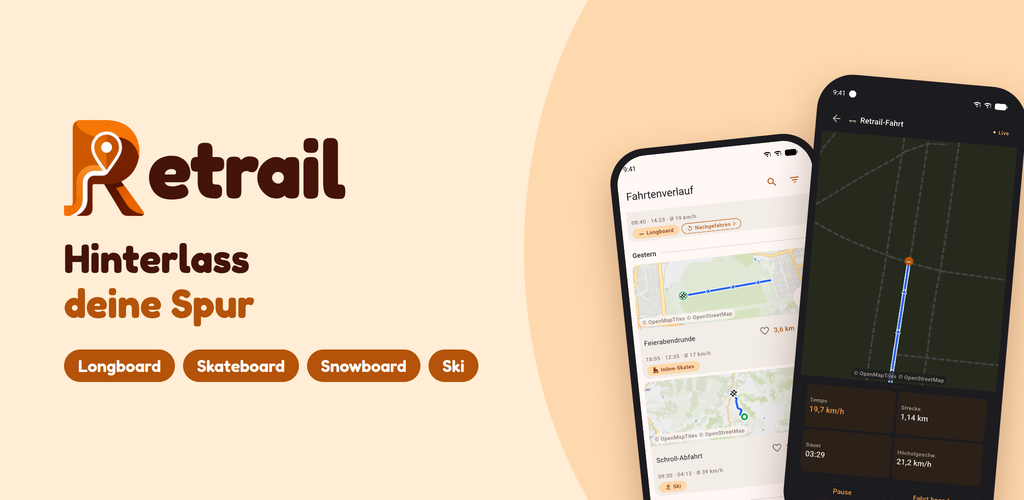
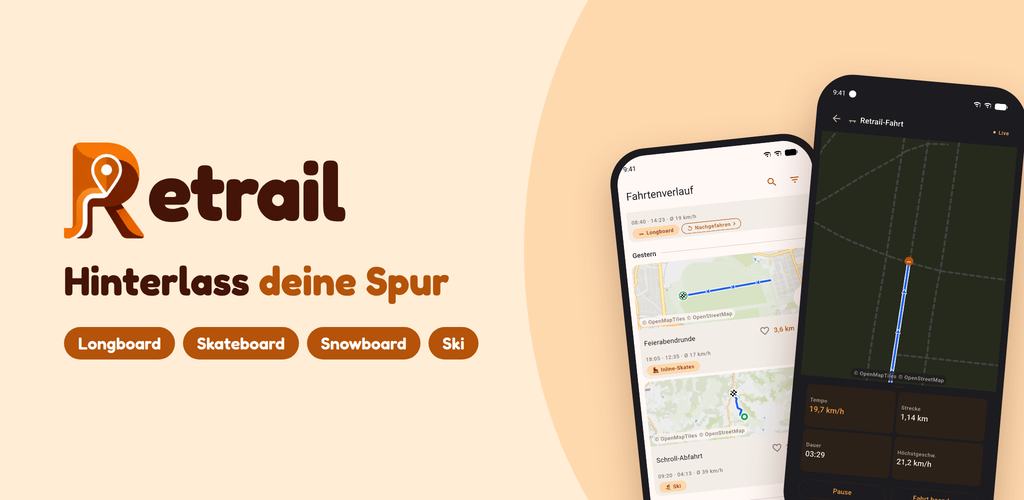
docs(store): set the feature graphic slogan on one line (#94)

Changed region(s): [[0.0625, 0.24, 0.4688, 0.78]]

diff --git a/store/play/feature_graphic.html b/store/play/feature_graphic.html
@@ -46,9 +46,9 @@
 
   <script>
     const copy = {
-      en: { tagline: 'Leave<br><em>your trail</em>',
+      en: { tagline: 'Leave <em>your trail</em>',
             chips: ['Longboard', 'Skateboard', 'Snowboard', 'Ski'] },
-      de: { tagline: 'Hinterlass<br><em>deine Spur</em>',
+      de: { tagline: 'Hinterlass <em>deine Spur</em>',
             chips: ['Longboard', 'Skateboard', 'Snowboard', 'Ski'] },
     };
     const lang = new URLSearchParams(location.search).get('lang') || 'en';
